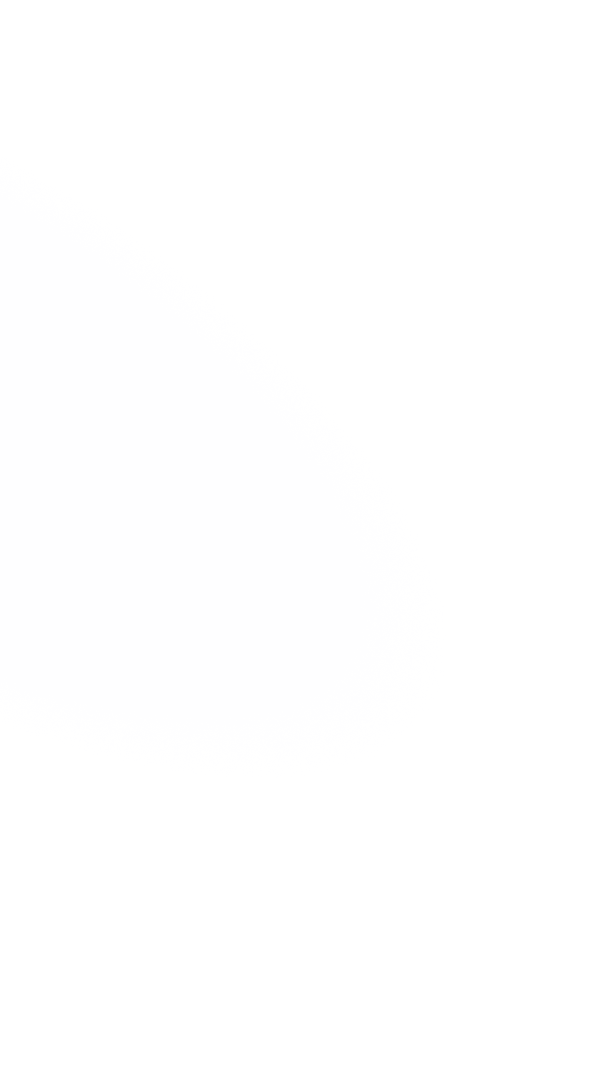
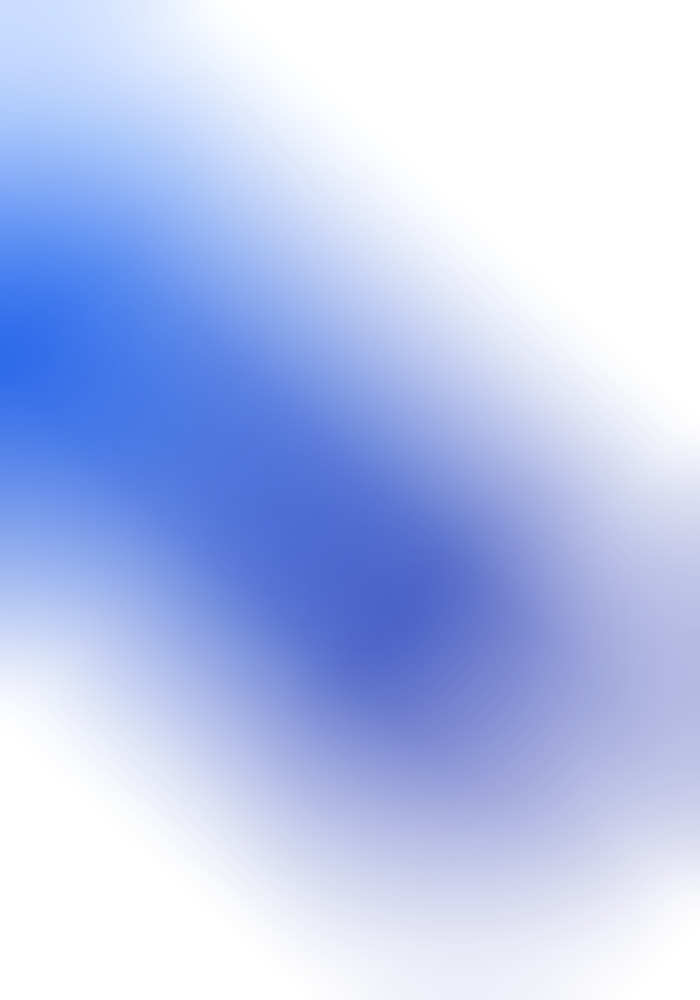
Bg images testing

diff --git a/app/UI/PageGradient.tsx b/app/UI/PageGradient.tsx
@@ -1,7 +1,10 @@
+import Image from "next/image"
 let PageGradient = () => {
     return (
-        <div>
-        </div>
+        <>
+            <Image src={'/images/left-grad.png'} width={500} height={1000} className="opacity-1 absolute h-10lg w-1/2 top-14 left-0"  alt=""/>
+            <Image src={'/images/right-grad.png'} width={500} height={1000} className="opacity-1 absolute h-10lg w-1/2 top-14 right-0" alt=""/>
+        </>
     )
 }
 export default PageGradient

diff --git a/tailwind.config.ts b/tailwind.config.ts
@@ -14,6 +14,9 @@ const config: Config = {
       width:{
         '10lg': '1000px'
       },
+      height:{
+        '10lg': '1000px'
+      },
       maxWidth: {
         '10xl': '1600px',
       },
